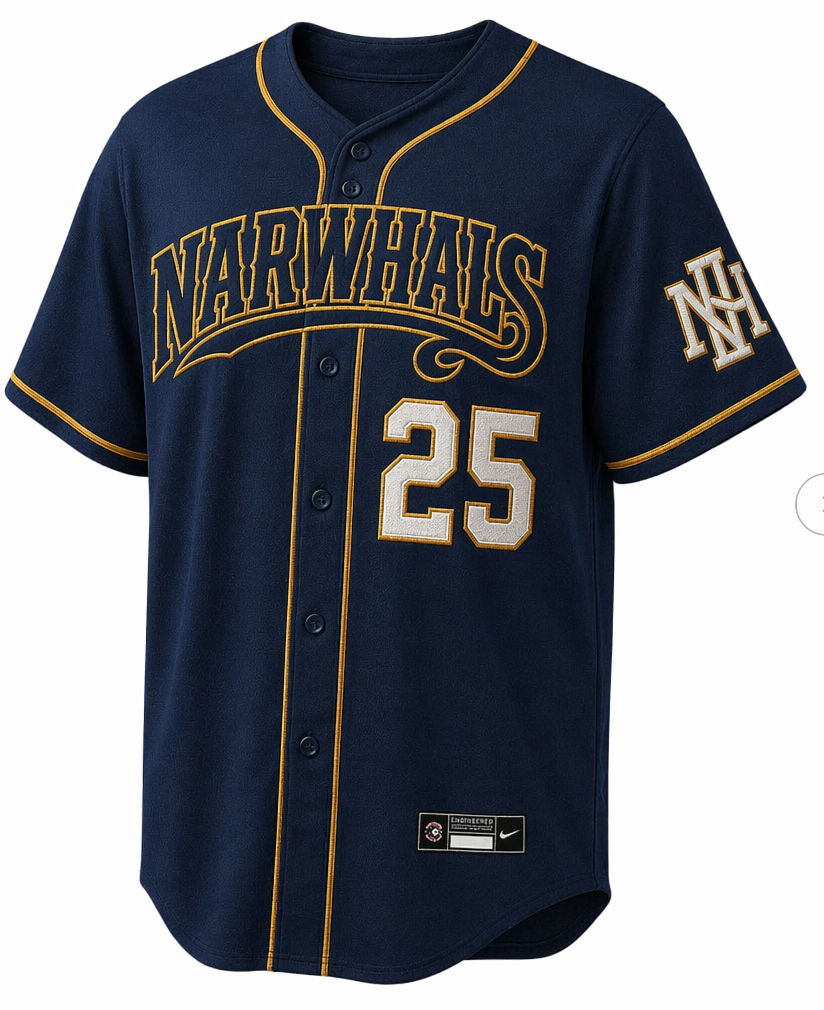
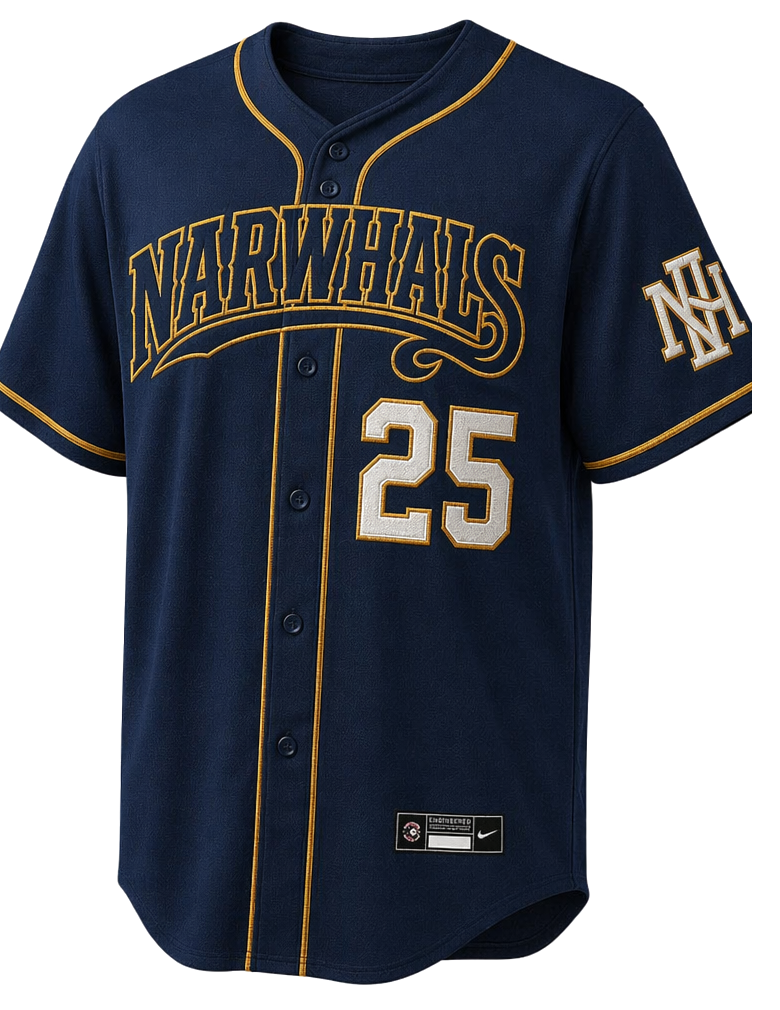
Isolate cap and jersey (transparent bg, kept shadows); spotlight figures
Key out the white product-shot backgrounds to transparent while preserving the
soft surface shadows, and remove the leftover carousel arc on the jersey. Swap
the white figure box for a soft in-palette ice spotlight so the navy products
read without looking boxed.

diff --git a/styles.css b/styles.css
@@ -443,21 +443,24 @@ ul { margin: 0; padding: 0; list-style: none; }
 }
 .kit-card:hover { transform: translateY(-4px); border-color: var(--line-gold); }
 .kit-figure {
-  /* Product shots are on white; seat them on a light panel so they read */
-  background: linear-gradient(180deg, #FFFFFF 0%, var(--ice-light) 100%);
-  border-bottom: 3px solid var(--gold);
+  /* Isolated products float on a soft ice spotlight, no hard box */
+  background:
+    radial-gradient(ellipse 68% 62% at 50% 44%,
+      rgba(178, 213, 228, 0.30) 0%,
+      rgba(178, 213, 228, 0.12) 42%,
+      rgba(178, 213, 228, 0) 72%);
+  border-bottom: 1px solid var(--line);
   display: flex;
   align-items: center;
   justify-content: center;
   aspect-ratio: 4 / 3;
-  padding: clamp(1rem, 3vw, 2rem);
+  padding: clamp(1.25rem, 3vw, 2.25rem);
 }
 .kit-figure img {
   width: auto;
   max-width: 100%;
   height: 100%;
   object-fit: contain;
-  filter: drop-shadow(0 14px 22px rgba(9, 33, 58, 0.18));
 }
 .kit-body { padding: clamp(1.4rem, 2.5vw, 2rem); }
 .kit-body .card-title { margin-bottom: 0.6rem; }